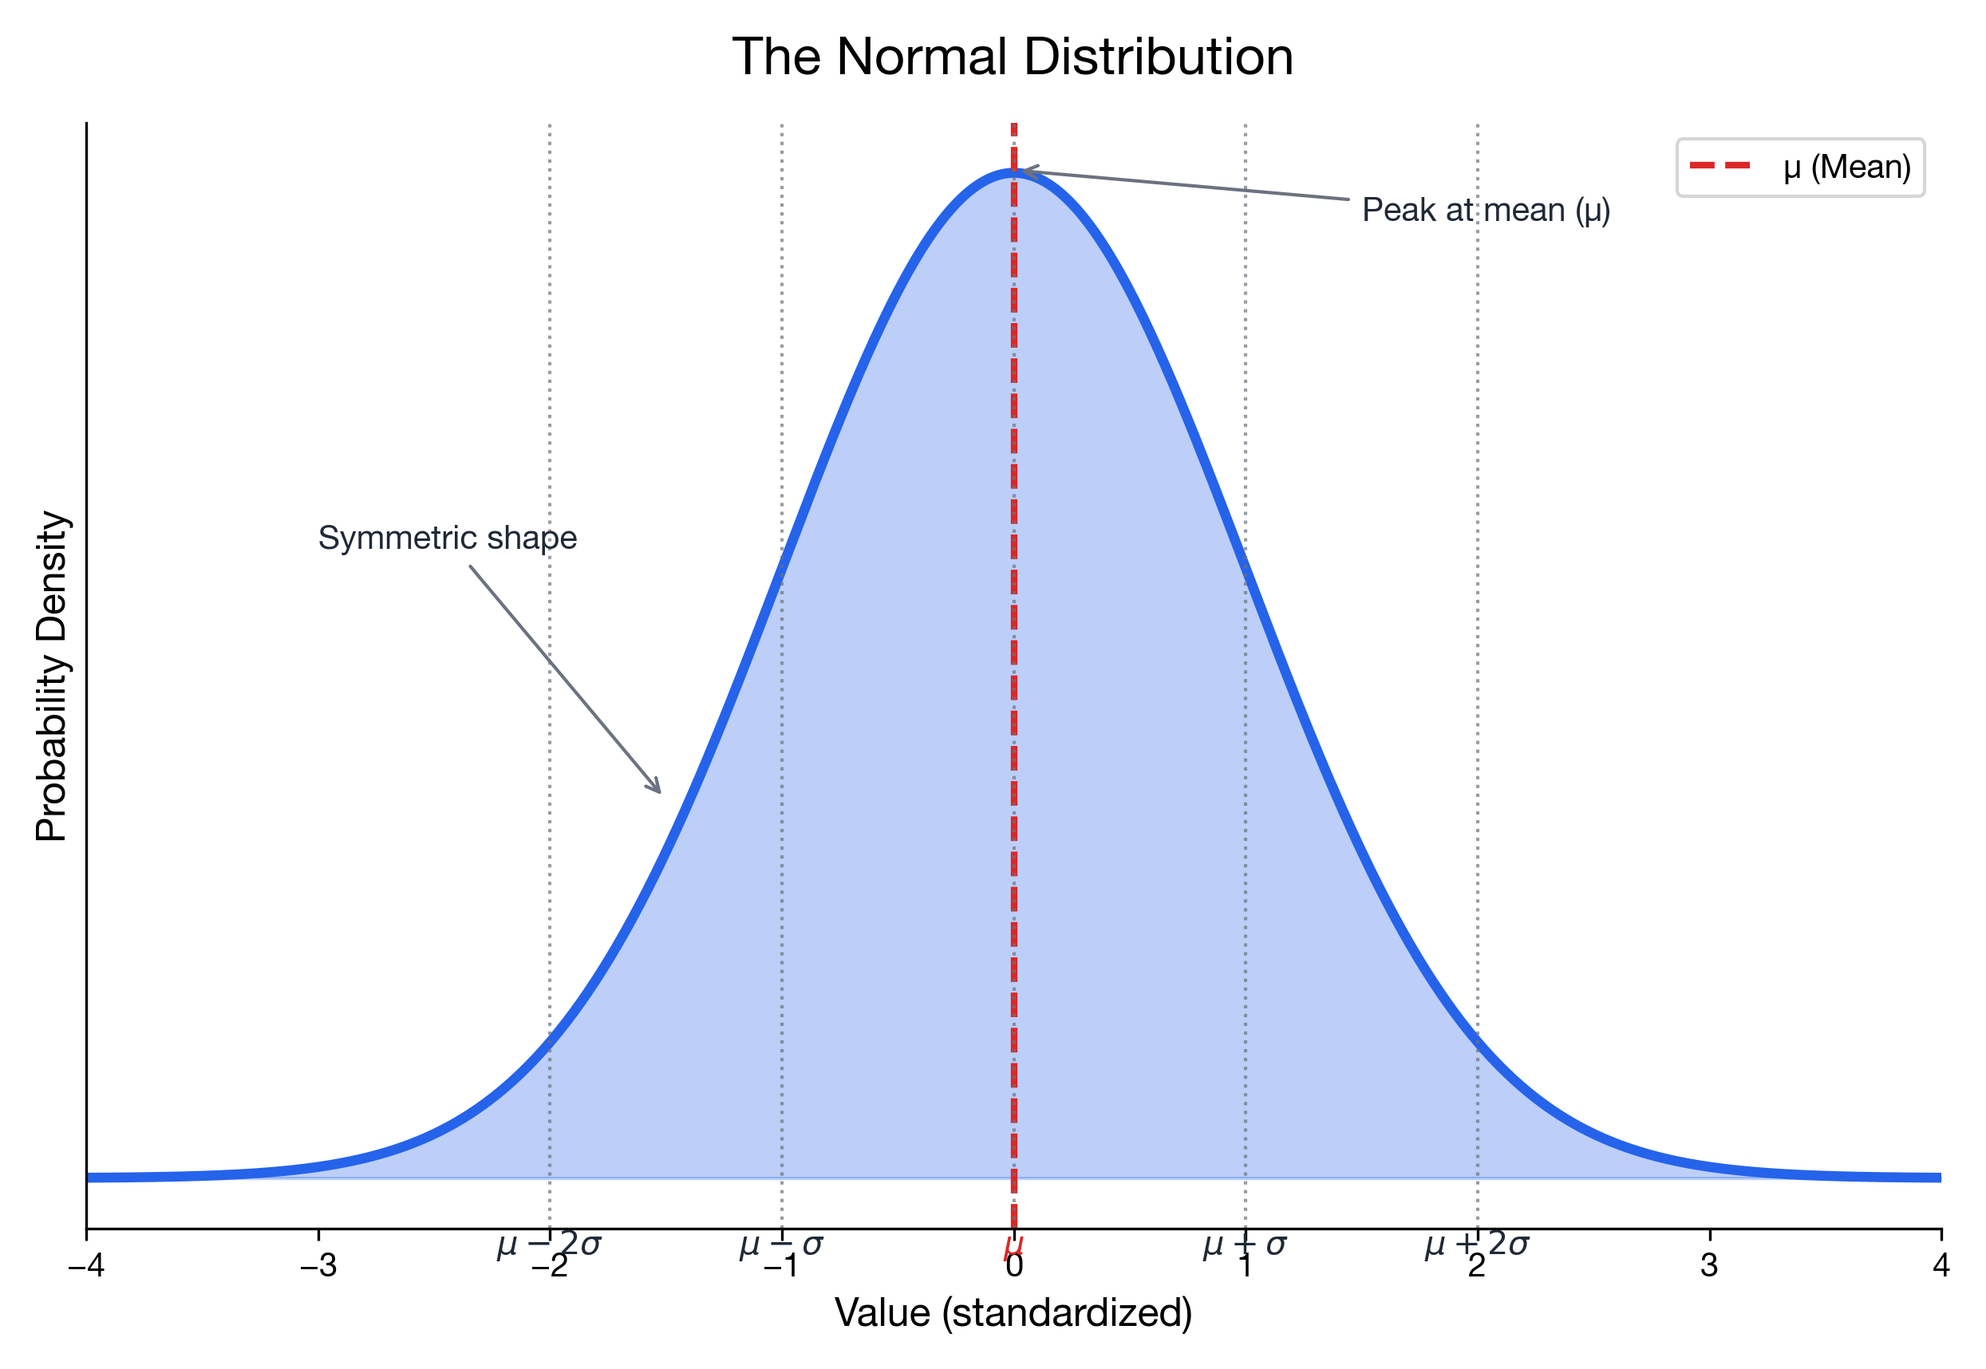
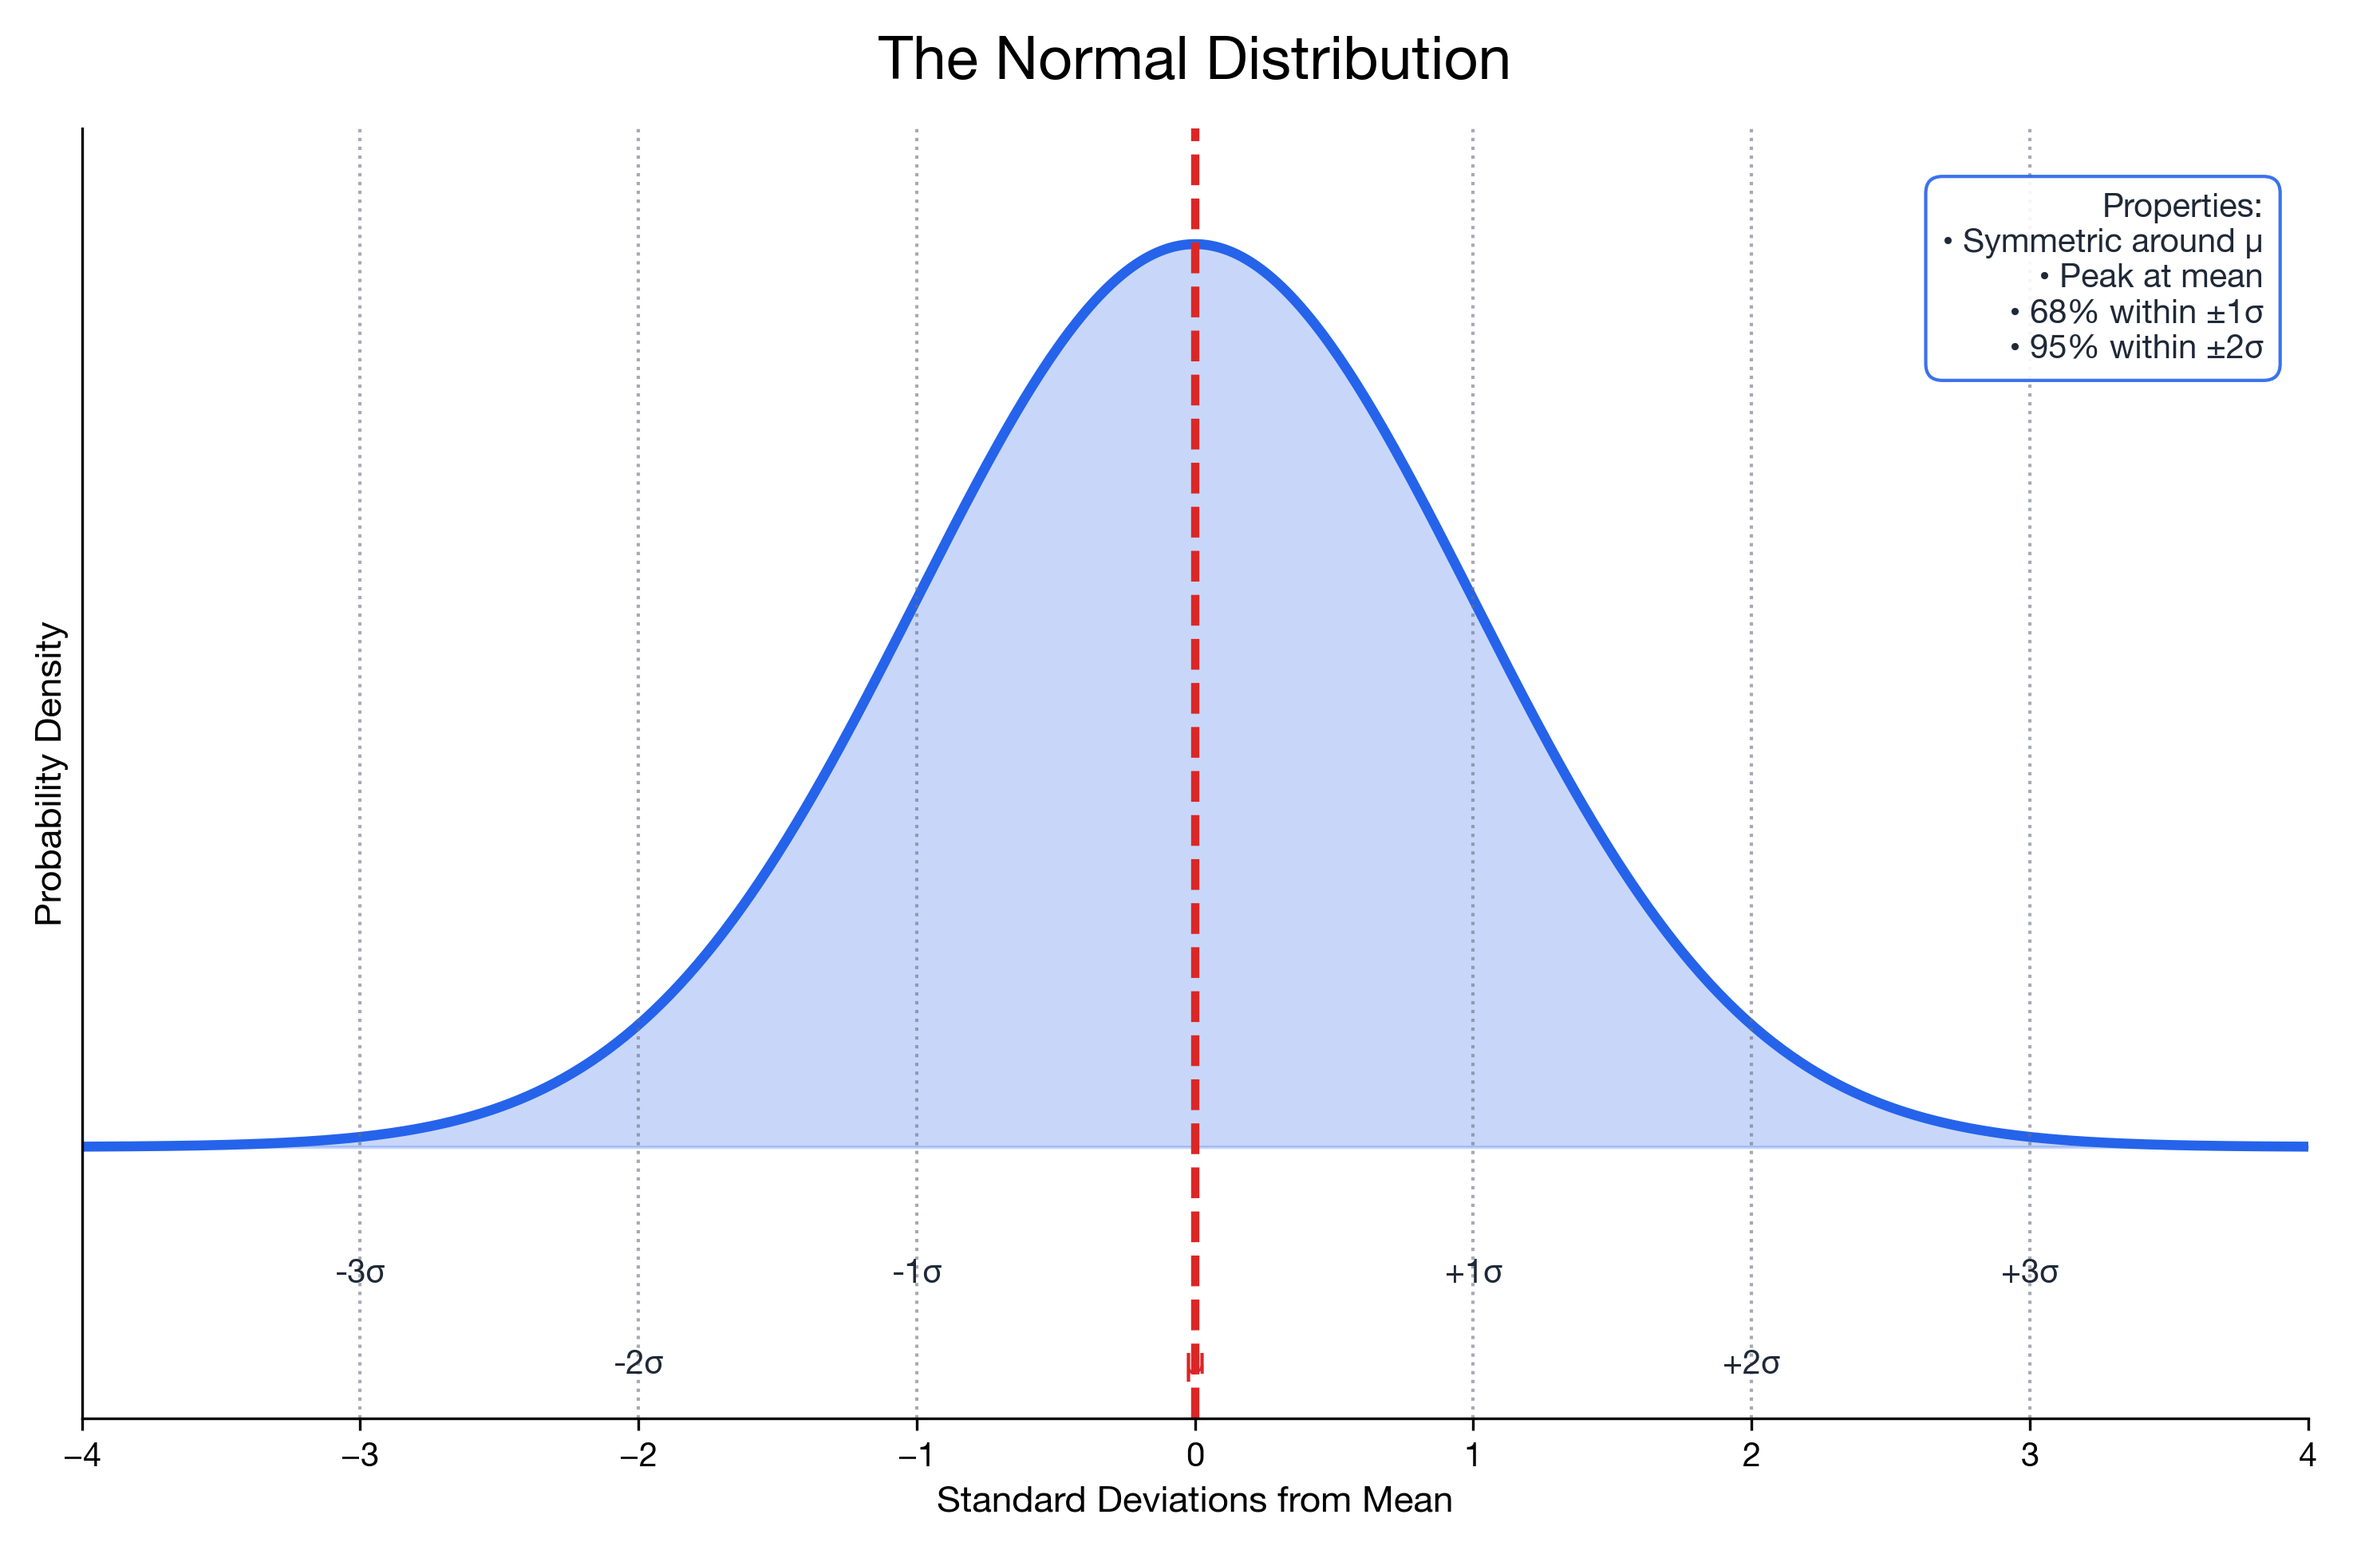
Improve normal_curve label spacing
- Staggered y-positions for σ labels (alternating heights)
- Added ±3σ markers
- Shorter labels (-2σ instead of μ-2σ)
- Extended y-axis below 0 for label space
- Replaced arrow annotations with properties box
- Larger canvas (12x7) for more breathing room

diff --git a/statistics/tools/generate_images.py b/statistics/tools/generate_images.py
@@ -686,46 +686,52 @@ def generate_correlation_examples():
 
 def generate_normal_curve():
     """Generate standard normal distribution curve with labeled components."""
-    fig, ax = plt.subplots(figsize=(10, 6))
+    fig, ax = plt.subplots(figsize=(12, 7))
     
     x = np.linspace(-4, 4, 500)
     y = stats.norm.pdf(x, 0, 1)
     
-    ax.fill_between(x, y, alpha=0.3, color=COLORS['primary'])
+    ax.fill_between(x, y, alpha=0.25, color=COLORS['primary'])
     ax.plot(x, y, color=COLORS['primary'], linewidth=3)
     
     # Mean line
-    ax.axvline(0, color=COLORS['warning'], linewidth=2, linestyle='--', label='μ (Mean)')
+    ax.axvline(0, color=COLORS['warning'], linewidth=2.5, linestyle='--')
     
-    # Standard deviation markers (use μ ± kσ notation)
-    labels = {
-        -2: r'$\mu-2\sigma$',
-        -1: r'$\mu-\sigma$',
-        0: r'$\mu$',
-        1: r'$\mu+\sigma$',
-        2: r'$\mu+2\sigma$',
-    }
-    for sd in [-2, -1, 0, 1, 2]:
-        ax.axvline(sd, color=COLORS['neutral'], linewidth=1, linestyle=':', alpha=0.7)
+    # Standard deviation markers with staggered labels
+    sd_info = [
+        (-3, '-3σ', 0.06),
+        (-2, '-2σ', 0.10),
+        (-1, '-1σ', 0.06),
+        (0, 'μ', 0.10),
+        (1, '+1σ', 0.06),
+        (2, '+2σ', 0.10),
+        (3, '+3σ', 0.06),
+    ]
+    
+    for sd, label, y_offset in sd_info:
+        if sd != 0:
+            ax.axvline(sd, color=COLORS['neutral'], linewidth=1, linestyle=':', alpha=0.6)
+        
+        # Place label below x-axis with staggered heights
         color = COLORS['warning'] if sd == 0 else COLORS['dark']
         weight = 'bold' if sd == 0 else 'normal'
-        ax.text(sd, -0.03, labels[sd], ha='center', fontsize=10, color=color, fontweight=weight)
+        size = 12 if sd == 0 else 10
+        ax.text(sd, -y_offset, label, ha='center', fontsize=size, color=color, fontweight=weight)
     
-    # Annotations
-    ax.annotate('Peak at mean (μ)', xy=(0, 0.4), xytext=(1.5, 0.38),
-                fontsize=10, color=COLORS['dark'],
-                arrowprops=dict(arrowstyle='->', color=COLORS['neutral']))
+    # Key properties box (instead of arrows)
+    props_text = 'Properties:\n• Symmetric around μ\n• Peak at mean\n• 68% within ±1σ\n• 95% within ±2σ'
+    ax.text(0.98, 0.95, props_text, transform=ax.transAxes, fontsize=10,
+            va='top', ha='right', color=COLORS['dark'],
+            bbox=dict(boxstyle='round,pad=0.5', facecolor='white', edgecolor=COLORS['primary'], alpha=0.9))
     
-    ax.annotate('Symmetric shape', xy=(-1.5, 0.15), xytext=(-3, 0.25),
-                fontsize=10, color=COLORS['dark'],
-                arrowprops=dict(arrowstyle='->', color=COLORS['neutral']))
-    
-    ax.set_xlabel('Value (standardized)')
-    ax.set_ylabel('Probability Density')
-    ax.set_title('The Normal Distribution', fontsize=16, fontweight='bold', pad=15)
+    ax.set_xlabel('Standard Deviations from Mean', fontsize=11)
+    ax.set_ylabel('Probability Density', fontsize=11)
+    ax.set_title('The Normal Distribution', fontsize=18, fontweight='bold', pad=15)
     ax.set_yticks([])
     ax.set_xlim(-4, 4)
-    ax.legend(loc='upper right', frameon=True)
+    ax.set_ylim(-0.12, 0.45)  # Extra space below for labels
+    ax.spines['top'].set_visible(False)
+    ax.spines['right'].set_visible(False)
     
     save_figure(fig, 'normal_curve.png')
 
